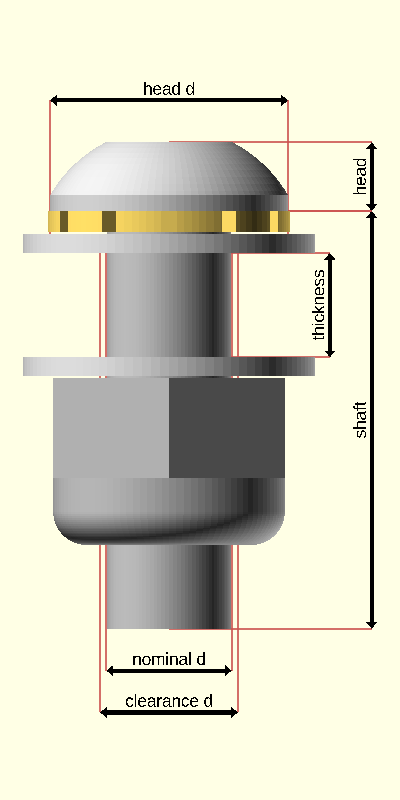
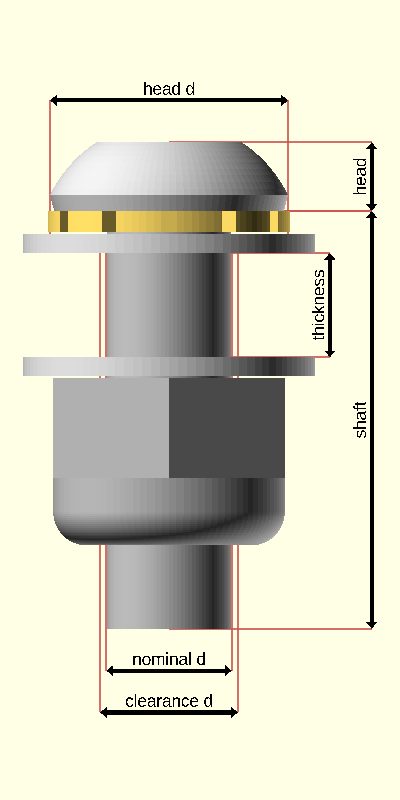
Refactor Makefiles and Documentation
- Added silent mode to Makefile with `MAKEFLAGS += -s`.
- Updated all targets in Makefiles to include help comments for better clarity.
- Ensured Python Virtual Environment check in the main Makefile.
- Modified `bump.sh` to call updated documentation targets.
- Enhanced various Makefiles in the docs and orthodocs directories to include help targets.
- Changed `twod` parameter to `mode` in functions and modules across SCAD files for consistency.
- Updated documentation to reflect changes in function parameters and variable names.
- Adjusted test scripts to align with the new parameter naming conventions.

diff --git a/orthodocs/vitamins/sata.md b/orthodocs/vitamins/sata.md
@@ -57,7 +57,7 @@ __Default:__
 
 __Default:__
 
-    let(side_prism_h=1.5,side_blk_sz=[2,2,4],side_sz=side_blk_sz+[0,0,side_prism_h],blk_sz=[36.5,3.5,5],data_sz=[10.7,2.3,blk_sz.z+2*FL_NIL],power_sz=[20.9,2.3,data_sz.z],Mconn=fl_T(fl_X((data_sz.x-power_sz.x)/2)),size=blk_sz+[2*side_sz.x,0,side_blk_sz.z/8+side_prism_h],cid=fl_sata_powerDataCID(),Mpoly=fl_Ry(90)*fl_T(-fl_X(side_blk_sz.x/2)-fl_Z(side_blk_sz.y/2)),Mprism=fl_Ry(45)*fl_T(fl_Y(side_prism_h/2))*fl_Rx(-90),inter_d=2.41,Mdata=fl_T(fl_X((data_sz.x-power_sz.x)/2))*fl_T([-inter_d/2,data_sz.y/2,-data_sz.z/2]),dc=conn_Socket(fl_sata_dataCID(),-FL_X,+FL_Y,Mdata*[0,0,data_sz.z,1]),Mpower=fl_T(fl_X((data_sz.x-power_sz.x)/2))*fl_T([inter_d/2,power_sz.y/2,-power_sz.z/2]),pc=conn_Socket(fl_sata_powerCID(),-FL_X,+FL_Y,Mpower*[0,0,power_sz.z,1]))fl_Object(bbox=[-blk_sz/2,+blk_sz/2],engine="sata/composite socket",others=[fl_conn_id(value=cid),fl_connectors(value=[pc,dc]),fl_cutout(value=[+Z]),["points",[[2,0],[2,-4],[0,-2],[0,0]]],["block size",blk_sz],["side block size",side_blk_sz],["prism l1,l2,h",[side_blk_sz.x,0.5,side_prism_h]],["data plug size",data_sz],["power plug size",power_sz],["Mpoly",Mpoly],["Mprism",Mprism],["plug inter distance",inter_d],__fl_sata_Mdata__(value=Mdata),__fl_sata_Mpower__(value=Mpower),])
+    let(side_prism_h=1.5,side_blk_sz=[2,2,4],side_sz=side_blk_sz+[0,0,side_prism_h],blk_sz=[36.5,3.5,5],data_sz=[10.7,2.3,blk_sz.z+2*FL_EPS],power_sz=[20.9,2.3,data_sz.z],Mconn=fl_T(fl_X((data_sz.x-power_sz.x)/2)),size=blk_sz+[2*side_sz.x,0,side_blk_sz.z/8+side_prism_h],cid=fl_sata_powerDataCID(),Mpoly=fl_Ry(90)*fl_T(-fl_X(side_blk_sz.x/2)-fl_Z(side_blk_sz.y/2)),Mprism=fl_Ry(45)*fl_T(fl_Y(side_prism_h/2))*fl_Rx(-90),inter_d=2.41,Mdata=fl_T(fl_X((data_sz.x-power_sz.x)/2))*fl_T([-inter_d/2,data_sz.y/2,-data_sz.z/2]),dc=conn_Socket(fl_sata_dataCID(),-FL_X,+FL_Y,Mdata*[0,0,data_sz.z,1]),Mpower=fl_T(fl_X((data_sz.x-power_sz.x)/2))*fl_T([inter_d/2,power_sz.y/2,-power_sz.z/2]),pc=conn_Socket(fl_sata_powerCID(),-FL_X,+FL_Y,Mpower*[0,0,power_sz.z,1]))fl_Object(bbox=[-blk_sz/2,+blk_sz/2],engine="sata/composite socket",others=[fl_conn_id(value=cid),fl_connectors(value=[pc,dc]),fl_cutout(value=[+Z]),["points",[[2,0],[2,-4],[0,-2],[0,0]]],["block size",blk_sz],["side block size",side_blk_sz],["prism l1,l2,h",[side_blk_sz.x,0.5,side_prism_h]],["data plug size",data_sz],["power plug size",power_sz],["Mpoly",Mpoly],["Mprism",Mprism],["plug inter distance",inter_d],__fl_sata_Mdata__(value=Mdata),__fl_sata_Mpower__(value=Mpower),])
 
 ---
 

diff --git a/orthodocs/vitamins/hds.md b/orthodocs/vitamins/hds.md
@@ -36,7 +36,7 @@ __Default:__
 
 __Default:__
 
-    let(size=[69.85,100,7],plug=FL_SATA_POWERDATAPLUG,cid=fl_sata_powerDataCID(),specs=M3_cs_cap_screw,screw_r=screw_radius(specs),Mpd=T(-X(4.8)-Z(NIL))*fl_direction([-Y,0])*fl_octant(+Y-Z,type=plug),conns=fl_connectors(plug),pc=fl_conn_clone(conns[0],M=Mpd),dc=fl_conn_clone(conns[1],M=Mpd))fl_Object(name="Samsung V-NAND SSD 860 EVO",engine=FL_HD_NS,bbox=[[-size.x/2,0,0],[+size.x/2,+size.y,+size.z],],others=[["offset",[0,-size.y/2,-size.z/2]],["corner radius",3],fl_screw_specs(value=specs),fl_sata_plug(value=plug),fl_connectors(value=[pc,dc]),fl_holes(value=[fl_Hole([size.x/2-3.5,14,0],3,-Z,3+screw_r),fl_Hole([size.x/2-3.5,90.6,0],3,-Z,3+screw_r),fl_Hole([-size.x/2+3.5,14,0],3,-Z,3+screw_r),fl_Hole([-size.x/2+3.5,90.6,0],3,-Z,3+screw_r),fl_Hole([size.x/2,14,3],3,+X,3.5+screw_r),fl_Hole([size.x/2,90.6,3],3,+X,3.5+screw_r),fl_Hole([-size.x/2,14,3],3,-X,3.5+screw_r),fl_Hole([-size.x/2,90.6,3],3,-X,3.5+screw_r),]),["Mpd",Mpd],fl_cutout(value=[-Y]),])
+    let(size=[69.85,100,7],plug=FL_SATA_POWERDATAPLUG,cid=fl_sata_powerDataCID(),specs=M3_cs_cap_screw,screw_r=screw_radius(specs),Mpd=T(-X(4.8)-Z(EPS))*fl_direction([-Y,0])*fl_octant(+Y-Z,type=plug),conns=fl_connectors(plug),pc=fl_conn_clone(conns[0],M=Mpd),dc=fl_conn_clone(conns[1],M=Mpd))fl_Object(name="Samsung V-NAND SSD 860 EVO",engine=FL_HD_NS,bbox=[[-size.x/2,0,0],[+size.x/2,+size.y,+size.z],],others=[["offset",[0,-size.y/2,-size.z/2]],["corner radius",3],fl_screw_specs(value=specs),fl_sata_plug(value=plug),fl_connectors(value=[pc,dc]),fl_holes(value=[fl_Hole([size.x/2-3.5,14,0],3,-Z,3+screw_r),fl_Hole([size.x/2-3.5,90.6,0],3,-Z,3+screw_r),fl_Hole([-size.x/2+3.5,14,0],3,-Z,3+screw_r),fl_Hole([-size.x/2+3.5,90.6,0],3,-Z,3+screw_r),fl_Hole([size.x/2,14,3],3,+X,3.5+screw_r),fl_Hole([size.x/2,90.6,3],3,+X,3.5+screw_r),fl_Hole([-size.x/2,14,3],3,-X,3.5+screw_r),fl_Hole([-size.x/2,90.6,3],3,-X,3.5+screw_r),]),["Mpd",Mpd],fl_cutout(value=[-Y]),])
 
 ---
 

diff --git a/orthodocs/toc.md b/orthodocs/toc.md
@@ -22,7 +22,6 @@
 - [fl_2d_slopeAngle (function)](foundation/2d-engine.md#function-fl_2d_slopeangle)
 - [fl_2d_vloop (module)](foundation/2d-engine.md#module-fl_2d_vloop)
 - [fl_2d_vmanage (module)](foundation/2d-engine.md#module-fl_2d_vmanage)
-- [FL_2xNIL (variable)](foundation/core.md#variable-fl_2xnil)
 
 ## 3
 
@@ -281,7 +280,10 @@
 - [fl_ellipticSector (module)](foundation/2d-engine.md#module-fl_ellipticsector)
 - [fl_Engine (function)](foundation/core.md#function-fl_engine)
 - [fl_engine (function)](foundation/core.md#function-fl_engine)
+- [EPS (variable)](foundation/unsafe_defs.md#variable-eps)
+- [FL_EPS (variable)](foundation/core.md#variable-fl_eps)
 - [EPSx2 (variable)](foundation/unsafe_defs.md#variable-epsx2)
+- [FL_EPSx2 (variable)](foundation/core.md#variable-fl_epsx2)
 - [fl_error (function)](foundation/core.md#function-fl_error)
 - [fl_error (module)](foundation/core.md#module-fl_error)
 - [fl_ether (module)](vitamins/ethers.md#module-fl_ether)
@@ -560,8 +562,6 @@
 - [fl_native (function)](foundation/core.md#function-fl_native)
 - [fl_new_cutout (module)](foundation/3d-engine.md#module-fl_new_cutout)
 - [fl_new_property (function)](foundation/core.md#function-fl_new_property)
-- [NIL (variable)](foundation/unsafe_defs.md#variable-nil)
-- [FL_NIL (variable)](foundation/core.md#variable-fl_nil)
 - [fl_nominal (function)](foundation/core.md#function-fl_nominal)
 - [fl_nopSCADlib (function)](foundation/core.md#function-fl_nopscadlib)
 - [FL_NS_CAD (variable)](artifacts/caddy.md#variable-fl_ns_cad)

diff --git a/orthodocs/foundation/core.md b/orthodocs/foundation/core.md
@@ -123,7 +123,7 @@ __Default:__
 
     is_undef($FL_RENDER)?!$preview:$FL_RENDER
 
-When true, disables PREVIEW corrections (see [variable FL_NIL](#variable-fl_nil))
+When true, disables PREVIEW corrections (see [variable FL_EPS](#variable-fl_eps))
 
 ---
 
@@ -137,14 +137,6 @@ function literal converting 3D to 2D coords by clipping Z plane
 
 NOTE: it's safe to be used as function literal parameter in [fl_list_transform()](#function-fl_list_transform)
 
-
----
-
-### variable FL_2xNIL
-
-__Default:__
-
-    2*FL_NIL
 
 ---
 
@@ -315,6 +307,24 @@ Context parameters used:
 
 ---
 
+### variable FL_EPS
+
+__Default:__
+
+    ($preview&&!$FL_RENDER?0.01:0)
+
+simple workaround for the z-fighting problem during preview
+
+---
+
+### variable FL_EPSx2
+
+__Default:__
+
+    2*FL_EPS
+
+---
+
 ### variable FL_FOOTPRINT
 
 __Default:__
@@ -362,16 +372,6 @@ __Default:__
     "FL_MOUNT mount shape through predefined screws"
 
 mount shape through predefined screws
-
----
-
-### variable FL_NIL
-
-__Default:__
-
-    ($preview&&!$FL_RENDER?0.01:0)
-
-simple workaround for the z-fighting problem during preview
 
 ---
 
@@ -2122,7 +2122,7 @@ push «item» on tail of list «l»
 __Syntax:__
 
 ```text
-fl_quadraticSolve(a,b,c,epsilon=NIL)
+fl_quadraticSolve(a,b,c,epsilon=EPS)
 ```
 
 solves a quadratic equation ax^2+bx+c=0 through the Quadratic Formula.

diff --git a/orthodocs/vitamins/sata-adapters.md b/orthodocs/vitamins/sata-adapters.md
@@ -31,7 +31,7 @@ __Default:__
 
 __Default:__
 
-    let(socket=FL_SATA_POWERDATASOCKET,handle_size=[47,37,11.6],socket_size=fl_size(socket),size=[handle_size.x,handle_size.y+socket_size.z,handle_size.z],Mpd=T(-Y(FL_NIL))*Ry(180)*Rx(-90)*fl_octant(+Z-Y,type=socket))[fl_name(value="ELUTENG USB 3.0 TO SATA ADAPTER"),fl_bb_corners(value=[[-size.x/2,-handle_size.y,-size.z/2],[size.x/2,socket_size.z,+size.z/2]]),fl_vendor(value=[["Amazon","https://www.amazon.it/gp/product/B06XCV1W97/"]]),["handle size",handle_size],["Mpd",Mpd],["connectors",fl_conn_import(fl_connectors(socket),Mpd)],["SATA socket",socket],]
+    let(socket=FL_SATA_POWERDATASOCKET,handle_size=[47,37,11.6],socket_size=fl_size(socket),size=[handle_size.x,handle_size.y+socket_size.z,handle_size.z],Mpd=T(-Y(FL_EPS))*Ry(180)*Rx(-90)*fl_octant(+Z-Y,type=socket))[fl_name(value="ELUTENG USB 3.0 TO SATA ADAPTER"),fl_bb_corners(value=[[-size.x/2,-handle_size.y,-size.z/2],[size.x/2,socket_size.z,+size.z/2]]),fl_vendor(value=[["Amazon","https://www.amazon.it/gp/product/B06XCV1W97/"]]),["handle size",handle_size],["Mpd",Mpd],["connectors",fl_conn_import(fl_connectors(socket),Mpd)],["SATA socket",socket],]
 
 ---
 

diff --git a/orthodocs/foundation/unsafe_defs.md b/orthodocs/foundation/unsafe_defs.md
@@ -18,13 +18,23 @@ SPDX-License-Identifier: [GPL-3.0-or-later](https://spdx.org/licenses/GPL-3.0-or
 
 ---
 
+### variable EPS
+
+__Default:__
+
+    FL_EPS
+
+see [variable EPS](#variable-eps)
+
+---
+
 ### variable EPSx2
 
 __Default:__
 
-    FL_2xNIL
+    FL_EPSx2
 
-see [variable FL_2xNIL](core.md#variable-fl_2xnil)
+see [variable FL_EPSx2](core.md#variable-fl_epsx2)
 
 ---
 
@@ -35,16 +45,6 @@ __Default:__
     FL_I
 
 see [variable FL_I](core.md#variable-fl_i)
-
----
-
-### variable NIL
-
-__Default:__
-
-    FL_NIL
-
-see [variable NIL](#variable-nil)
 
 ---
 

diff --git a/orthodocs/foundation/traits-engine.md b/orthodocs/foundation/traits-engine.md
@@ -146,7 +146,7 @@ indicates a value of 3 along +X, 1.5 along -Z and 0 otherwise.
 __Syntax:__
 
 ```text
-fl_tt_isBoundingBox(bbox,2d=false)
+fl_tt_isBoundingBox(bbox,mode="3d")
 ```
 
 return true when «bbox» is a bounding box in [low,high] format.
@@ -176,6 +176,9 @@ __Parameters:__
 
 __bbox__  
 bounding box to be verified
+
+__mode__  
+2d switch, can be either "2d" or "3d"
 
 
 ---
@@ -302,7 +305,7 @@ optional list size
 __Syntax:__
 
 ```text
-fl_tt_isOctant(3d)
+fl_tt_isOctant(threed)
 ```
 
 ---

diff --git a/orthodocs/foundation/3d-engine.md b/orthodocs/foundation/3d-engine.md
@@ -934,7 +934,7 @@ __Syntax:__
 
 __Syntax:__
 
-    fl_bb_add(corners,2d=false,auto=true)
+    fl_bb_add(corners,mode="3d",auto=true)
 
 add a bounding box shape to the scene
 
@@ -946,8 +946,8 @@ Bounding box corners in [Low,High] format.
 see also [fl_tt_isBoundingBox()](traits-engine.md#function-fl_tt_isboundingbox)
 
 
-__2d__  
-2d switch
+__mode__  
+2d switch, can be either "2d" or "3d"
 
 __auto__  
 when true, z-fight correction is applied

diff --git a/orthodocs/foundation/hole-engine.md b/orthodocs/foundation/hole-engine.md
@@ -148,7 +148,7 @@ fl_tt_isHole(hole)
 ```
 
 Hole representation as mandatory properties check:
-- 3d   : hole position
+- pos  : 3d hole position
 - n    : applied surface normal
 - d    : hole diameter
 - depth: hole depth (0 means pass-thru hole)

diff --git a/TODO.md b/TODO.md
@@ -153,3 +153,4 @@
 - [ ] add a global modifier of the main loop establishing when/if ignoring the
   not implemented verb(s;)
 - [ ] replace bipolar getters with fl_new_property();
+- [ ] add magnet holders from ('super-pipe' project)
